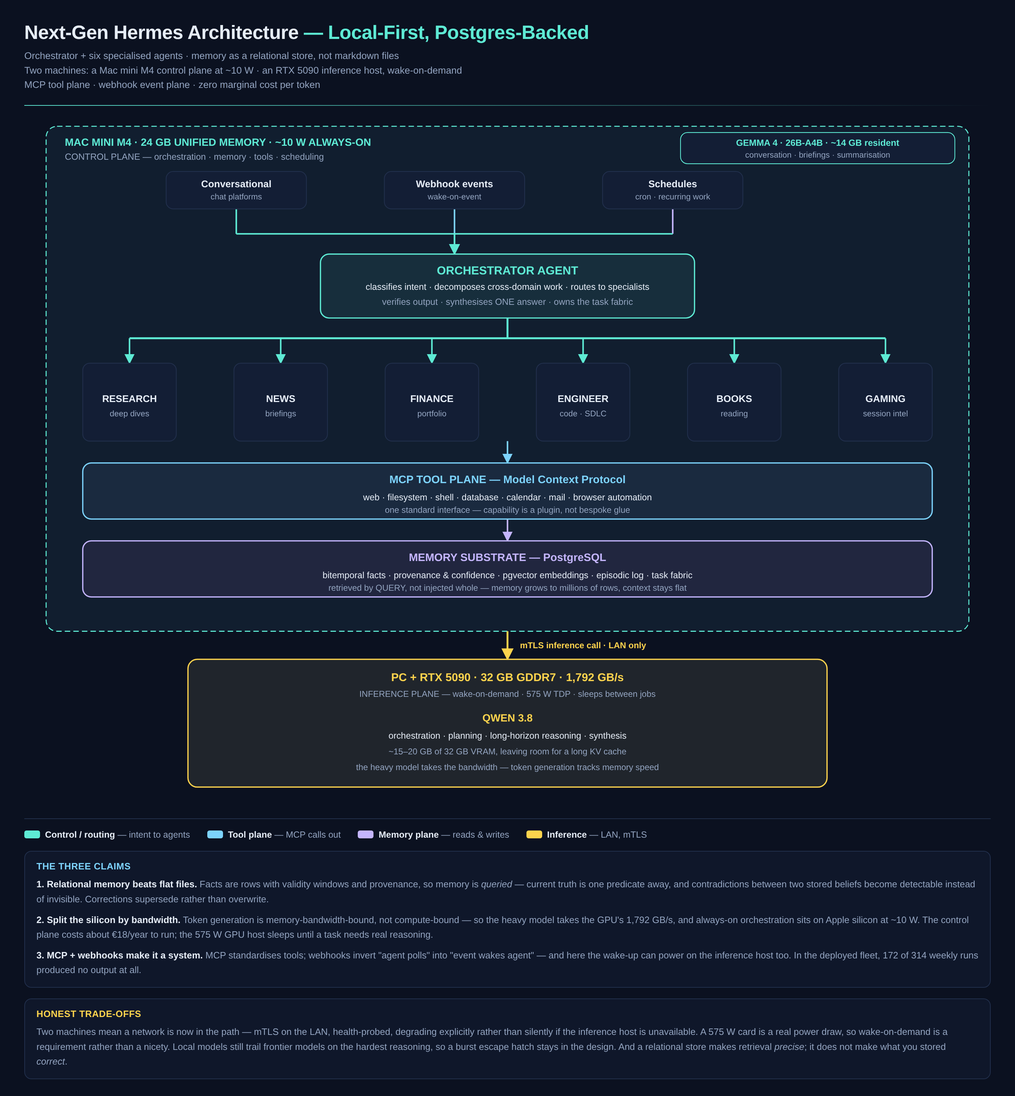
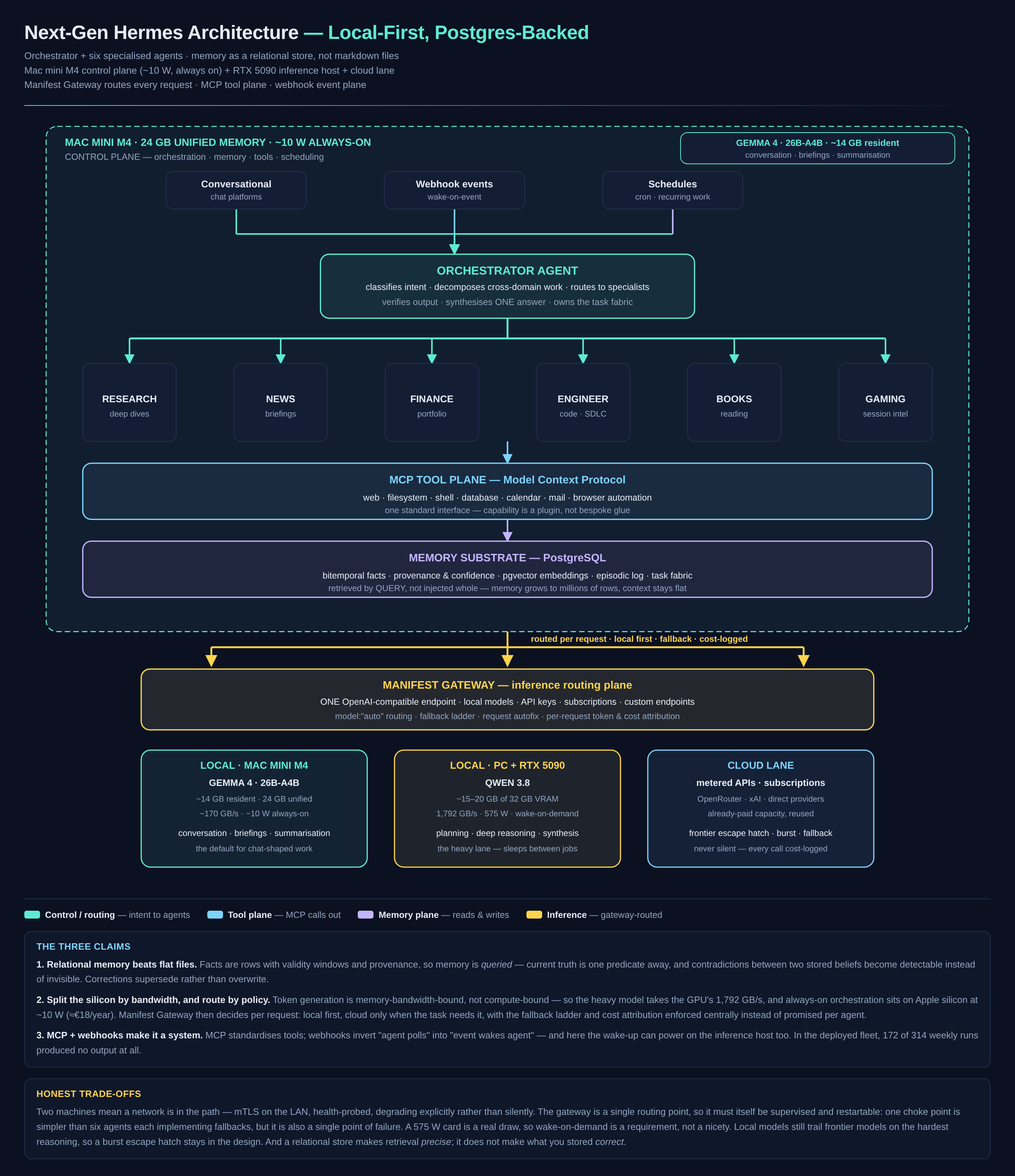
Add Manifest Gateway as the inference routing plane
One OpenAI-compatible endpoint fronting local models, API keys, subscriptions
and custom endpoints — with model auto-routing, a fallback ladder, request
autofix and per-request token/cost attribution.

Changed region(s): [[0.031, 0.0, 0.9606, 0.9912], [0.6817, 0.0929, 0.9296, 0.1549], [0.4338, 0.0, 0.5577, 0.0619]]

diff --git a/diagrams/01-hld-next-gen.html b/diagrams/01-hld-next-gen.html
@@ -33,12 +33,12 @@
 <h1>Next-Gen Hermes Architecture <span>— Local-First, Postgres-Backed</span></h1>
 <div class="sub">
   Orchestrator + six specialised agents · memory as a relational store, not markdown files<br>
-  Two machines: a Mac&nbsp;mini&nbsp;M4 control plane at ~10&nbsp;W · an RTX&nbsp;5090 inference host, wake-on-demand<br>
-  MCP tool plane · webhook event plane · zero marginal cost per token
+  Mac&nbsp;mini&nbsp;M4 control plane (~10&nbsp;W, always on) + RTX&nbsp;5090 inference host + cloud lane<br>
+  Manifest Gateway routes every request · MCP tool plane · webhook event plane
 </div>
 <div class="rule"></div>
 
-<svg viewBox="0 0 1240 880" xmlns="http://www.w3.org/2000/svg" font-family="-apple-system,BlinkMacSystemFont,Segoe UI,Inter,Helvetica,Arial,sans-serif">
+<svg viewBox="0 0 1240 982" xmlns="http://www.w3.org/2000/svg" font-family="-apple-system,BlinkMacSystemFont,Segoe UI,Inter,Helvetica,Arial,sans-serif">
 
   <defs>
     <marker id="ar" viewBox="0 0 10 10" refX="9" refY="5" markerWidth="6.5" markerHeight="6.5" orient="auto-start-reverse">
@@ -84,9 +84,48 @@
   <path d="M620,412 L620,440" stroke="#7dd3fc" stroke-width="2" fill="none" marker-end="url(#ar2)"/>
   <path d="M620,512 L620,540" stroke="#c4b5fd" stroke-width="2" fill="none" marker-end="url(#ar3)"/>
 
-  <path d="M620,656 L620,692" stroke="#fcd34d" stroke-width="2.4" fill="none" marker-end="url(#ar4)"/>
-  <text x="636" y="678" fill="#fcd34d" font-size="11" font-weight="600">mTLS inference call · LAN only</text>
+  <!-- ===== INFERENCE ROUTING — MANIFEST GATEWAY ===== -->
+  <path d="M620,656 L620,676" stroke="#fcd34d" stroke-width="2.4" fill="none"/>
+  <path d="M240,676 L1000,676" stroke="#fcd34d" stroke-width="2.4" fill="none"/>
+  <path d="M240,676 L240,700" stroke="#fcd34d" stroke-width="2.4" fill="none" marker-end="url(#ar4)"/>
+  <path d="M620,676 L620,700" stroke="#fcd34d" stroke-width="2.4" fill="none" marker-end="url(#ar4)"/>
+  <path d="M1000,676 L1000,700" stroke="#fcd34d" stroke-width="2.4" fill="none" marker-end="url(#ar4)"/>
+  <text x="650" y="669" fill="#fcd34d" font-size="11" font-weight="600">routed per request · local first · fallback · cost-logged</text>
 
+  <!-- ===== MANIFEST GATEWAY BAND ===== -->
+  <rect x="150" y="704" width="940" height="78" rx="11" fill="#0f172a" stroke="#fcd34d" stroke-width="1.6"/>
+  <rect x="150" y="704" width="940" height="78" rx="11" fill="#fcd34d" opacity="0.09"/>
+  <text x="620" y="729" fill="#fcd34d" font-size="14" font-weight="700" text-anchor="middle">MANIFEST GATEWAY — inference routing plane</text>
+  <text x="620" y="750" fill="#e6edf7" font-size="11.5" text-anchor="middle">ONE OpenAI-compatible endpoint · local models · API keys · subscriptions · custom endpoints</text>
+  <text x="620" y="768" fill="#93a4c0" font-size="11" text-anchor="middle">model:"auto" routing · fallback ladder · request autofix · per-request token &amp; cost attribution</text>
+
+  <!-- ===== THREE LANES ===== -->
+  <rect x="150" y="808" width="290" height="150" rx="12" fill="#0f172a" stroke="#5eead4" stroke-width="1.5"/>
+  <rect x="150" y="808" width="290" height="150" rx="12" fill="#5eead4" opacity="0.06"/>
+  <text x="295" y="832" fill="#5eead4" font-size="13" font-weight="700" text-anchor="middle">LOCAL · MAC MINI M4</text>
+  <text x="295" y="854" fill="#e6edf7" font-size="12" font-weight="600" text-anchor="middle">GEMMA 4 · 26B-A4B</text>
+  <text x="295" y="874" fill="#93a4c0" font-size="10.5" text-anchor="middle">~14 GB resident · 24 GB unified</text>
+  <text x="295" y="893" fill="#93a4c0" font-size="10.5" text-anchor="middle">~170 GB/s · ~10 W always-on</text>
+  <text x="295" y="918" fill="#e6edf7" font-size="11" text-anchor="middle">conversation · briefings · summarisation</text>
+  <text x="295" y="938" fill="#93a4c0" font-size="10.5" text-anchor="middle">the default for chat-shaped work</text>
+
+  <rect x="475" y="808" width="290" height="150" rx="12" fill="#0f172a" stroke="#fcd34d" stroke-width="1.5"/>
+  <rect x="475" y="808" width="290" height="150" rx="12" fill="#fcd34d" opacity="0.07"/>
+  <text x="620" y="832" fill="#fcd34d" font-size="13" font-weight="700" text-anchor="middle">LOCAL · PC + RTX 5090</text>
+  <text x="620" y="854" fill="#e6edf7" font-size="12" font-weight="600" text-anchor="middle">QWEN 3.8</text>
+  <text x="620" y="874" fill="#93a4c0" font-size="10.5" text-anchor="middle">~15–20 GB of 32 GB VRAM</text>
+  <text x="620" y="893" fill="#93a4c0" font-size="10.5" text-anchor="middle">1,792 GB/s · 575 W · wake-on-demand</text>
+  <text x="620" y="918" fill="#e6edf7" font-size="11" text-anchor="middle">planning · deep reasoning · synthesis</text>
+  <text x="620" y="938" fill="#93a4c0" font-size="10.5" text-anchor="middle">the heavy lane — sleeps between jobs</text>
+
+  <rect x="800" y="808" width="290" height="150" rx="12" fill="#0f172a" stroke="#7dd3fc" stroke-width="1.5"/>
+  <rect x="800" y="808" width="290" height="150" rx="12" fill="#7dd3fc" opacity="0.06"/>
+  <text x="945" y="832" fill="#7dd3fc" font-size="13" font-weight="700" text-anchor="middle">CLOUD LANE</text>
+  <text x="945" y="854" fill="#e6edf7" font-size="12" font-weight="600" text-anchor="middle">metered APIs · subscriptions</text>
+  <text x="945" y="874" fill="#93a4c0" font-size="10.5" text-anchor="middle">OpenRouter · xAI · direct providers</text>
+  <text x="945" y="893" fill="#93a4c0" font-size="10.5" text-anchor="middle">already-paid capacity, reused</text>
+  <text x="945" y="918" fill="#e6edf7" font-size="11" text-anchor="middle">frontier escape hatch · burst · fallback</text>
+  <text x="945" y="938" fill="#93a4c0" font-size="10.5" text-anchor="middle">never silent — every call cost-logged</text>
   <!-- ===== INPUTS ===== -->
   <rect x="182" y="66" width="180" height="48" rx="9" fill="#131e35" stroke="#22304d"/>
   <text x="272" y="86" fill="#e6edf7" font-size="12.5" font-weight="600" text-anchor="middle">Conversational</text>
@@ -148,36 +187,26 @@
   <text x="620" y="588" fill="#e6edf7" font-size="11.5" text-anchor="middle">bitemporal facts · provenance &amp; confidence · pgvector embeddings · episodic log · task fabric</text>
   <text x="620" y="604" fill="#93a4c0" font-size="11" text-anchor="middle">retrieved by QUERY, not injected whole — memory grows to millions of rows, context stays flat</text>
 
-  <!-- ===== INFERENCE HOST ===== -->
-  <rect x="210" y="692" width="820" height="164" rx="12" fill="#0f172a" stroke="#fcd34d" stroke-width="1.6"/>
-  <rect x="210" y="692" width="820" height="164" rx="12" fill="#fcd34d" opacity="0.075"/>
-
-  <text x="620" y="720" fill="#fcd34d" font-size="14.5" font-weight="700" text-anchor="middle">PC + RTX 5090 · 32 GB GDDR7 · 1,792 GB/s</text>
-  <text x="620" y="740" fill="#93a4c0" font-size="11" text-anchor="middle">INFERENCE PLANE — wake-on-demand · 575 W TDP · sleeps between jobs</text>
-
-  <text x="620" y="772" fill="#fcd34d" font-size="13.5" font-weight="700" text-anchor="middle">QWEN 3.8</text>
-  <text x="620" y="794" fill="#e6edf7" font-size="11.5" text-anchor="middle">orchestration · planning · long-horizon reasoning · synthesis</text>
-  <text x="620" y="814" fill="#93a4c0" font-size="11" text-anchor="middle">~15–20 GB of 32 GB VRAM, leaving room for a long KV cache</text>
-  <text x="620" y="834" fill="#93a4c0" font-size="11" text-anchor="middle">the heavy model takes the bandwidth — token generation tracks memory speed</text>
+  <!-- ===== INFERENCE HOST (represented by the lane boxes above) ===== -->
 </svg>
 
 <div class="legendrow">
   <span><span class="sw" style="background:#5eead4"></span><b>Control / routing</b> — intent to agents</span>
   <span><span class="sw" style="background:#7dd3fc"></span><b>Tool plane</b> — MCP calls out</span>
   <span><span class="sw" style="background:#c4b5fd"></span><b>Memory plane</b> — reads &amp; writes</span>
-  <span><span class="sw" style="background:#fcd34d"></span><b>Inference</b> — LAN, mTLS</span>
+  <span><span class="sw" style="background:#fcd34d"></span><b>Inference</b> — gateway-routed</span>
 </div>
 
 <div class="card">
   <h3>The three claims</h3>
   <p><b>1. Relational memory beats flat files.</b> Facts are rows with validity windows and provenance, so memory is <i>queried</i> — current truth is one predicate away, and contradictions between two stored beliefs become detectable instead of invisible. Corrections supersede rather than overwrite.</p>
-  <p style="margin-top:8px"><b>2. Split the silicon by bandwidth.</b> Token generation is memory-bandwidth-bound, not compute-bound — so the heavy model takes the GPU's 1,792 GB/s, and always-on orchestration sits on Apple silicon at ~10 W. The control plane costs about €18/year to run; the 575 W GPU host sleeps until a task needs real reasoning.</p>
+  <p style="margin-top:8px"><b>2. Split the silicon by bandwidth, and route by policy.</b> Token generation is memory-bandwidth-bound, not compute-bound — so the heavy model takes the GPU's 1,792 GB/s, and always-on orchestration sits on Apple silicon at ~10 W (≈€18/year). Manifest Gateway then decides per request: local first, cloud only when the task needs it, with the fallback ladder and cost attribution enforced centrally instead of promised per agent.</p>
   <p style="margin-top:8px"><b>3. MCP + webhooks make it a system.</b> MCP standardises tools; webhooks invert "agent polls" into "event wakes agent" — and here the wake-up can power on the inference host too. In the deployed fleet, 172 of 314 weekly runs produced no output at all.</p>
 </div>
 
 <div class="card">
   <h3>Honest trade-offs</h3>
-  <p>Two machines mean a network is now in the path — mTLS on the LAN, health-probed, degrading explicitly rather than silently if the inference host is unavailable. A 575 W card is a real power draw, so wake-on-demand is a requirement rather than a nicety. Local models still trail frontier models on the hardest reasoning, so a burst escape hatch stays in the design. And a relational store makes retrieval <i>precise</i>; it does not make what you stored <i>correct</i>.</p>
+  <p>Two machines mean a network is in the path — mTLS on the LAN, health-probed, degrading explicitly rather than silently. The gateway is a single routing point, so it must itself be supervised and restartable: one choke point is simpler than six agents each implementing fallbacks, but it is also a single point of failure. A 575 W card is a real draw, so wake-on-demand is a requirement, not a nicety. Local models still trail frontier models on the hardest reasoning, so a burst escape hatch stays in the design. And a relational store makes retrieval <i>precise</i>; it does not make what you stored <i>correct</i>.</p>
 </div>
 
 </body>

diff --git a/HLD.md b/HLD.md
@@ -46,20 +46,24 @@ PostgreSQL as the memory substrate; MCP for tools; webhooks for event-driven wor
                         │  episodic log · task state · audit       │
                         └──────────────────────────────────────────┘
 
-   ══════════════════ control plane ═╪═ inference plane ═════════════════
+   ══════════════════ control plane (Mac mini) ══════════════════════════
 
-   ┌───────────────────────────────┐  │  ┌──────────────────────────────┐
-   │  MAC MINI M4 · 24 GB          │  │  │  PC + RTX 5090 · 32 GB       │
-   │  170 GB/s · ~10 W always-on   │  │  │  1,792 GB/s · 575 W TDP      │
-   │  CONTROL PLANE                │◀─┼─▶│  INFERENCE PLANE             │
-   │                               │  │  │                              │
-   │  GEMMA 4 (26B-A4B, ~4B active)│  │  │  QWEN 3.8                    │
-   │  conversation · briefings     │  │  │  orchestration · planning    │
-   │  summarisation · chat surfaces│  │  │  deep reasoning · synthesis  │
-   │  ~14 GB resident              │  │  │  ~15–20 GB + long KV cache   │
-   └───────────────────────────────┘  │  └──────────────────────────────┘
-     orchestration · memory · tools   │    dedicated GPU inference,
-     scheduling · always available    │    wake-on-demand
+                        ┌───────────────┴──────────────────────────┐
+                        │  MANIFEST GATEWAY — inference routing    │
+                        │  ONE OpenAI-compatible endpoint for the  │
+                        │  whole fleet · model:"auto" · fallback   │
+                        │  ladder · per-route params · token and   │
+                        │  cost observability                      │
+                        └──┬───────────────┬──────────────┬────────┘
+                           │               │              │
+        ┌──────────────────┴──┐ ┌──────────┴────────┐ ┌───┴────────────────┐
+        │  GEMMA 4            │ │  QWEN 3.8         │ │  CLOUD LANE        │
+        │  Mac mini · resident│ │  PC + RTX 5090    │ │  OpenRouter · xAI  │
+        │  26B-A4B, ~4B active│ │  wake-on-demand   │ │  keys + subs       │
+        │  ~14 GB · 170 GB/s  │ │  ~15–20 GB of 32  │ │  frontier escape   │
+        │  conversation·chat  │ │  deep reasoning   │ │  hatch + fallback  │
+        └─────────────────────┘ └───────────────────┘ └────────────────────┘
+           ~10 W, always on        575 W, sleeps         metered, last resort
 ```
 
 ## 3. Why two machines, and why these two
@@ -97,7 +101,77 @@ high-frequency conversational surfaces, where fluency matters more than depth. E
 model is resident on its own host, so there is no swap penalty between a chat turn and
 an orchestration turn.
 
-## 4. The memory substrate
+## 4. The routing plane — Manifest Gateway
+
+Between the agents and every model sits **one** gateway. [Manifest](https://manifest.build)
+is an open-source LLM gateway (self-hosted, Docker) that exposes a single
+OpenAI-compatible endpoint in front of many backends. It is the component that makes
+"cloud or local, depending on the task" a routing *policy* rather than scattered
+per-agent logic.
+
+### 4.1 What it unifies
+
+The gateway fronts four kinds of backend **simultaneously** — the exact mix this design
+needs:
+
+| Backend kind | In this design | Why it matters here |
+|---|---|---|
+| **Local server** | Qwen 3.8 (RTX 5090), Gemma 4 (Mac mini) via Ollama / llama.cpp | The privacy and zero-marginal-cost lane |
+| **API keys** | OpenRouter, plus any direct provider | Burst capacity and frontier capability |
+| **Provider subscriptions** | Subscription-based access used as-is | Reuses capacity already paid for rather than re-buying per token |
+| **Custom OpenAI-compatible endpoints** | Any bespoke or self-built server | Escape hatch for future local or private models |
+
+Every backend is reached the same way, so an agent can mix local, subscription and
+metered models transparently — no per-agent provider code.
+
+### 4.2 How routing decisions are made
+
+```
+agent request
+     │
+     ▼
+Manifest Gateway ── policy ──┬─▶ local  (privacy / zero marginal cost)  ← default
+     │                       ├─▶ subscription (already-paid capacity)
+     │                       ├─▶ metered API (burst, frontier capability)
+     │                       └─▶ escalation (a step the local model can't carry)
+     │
+     ├─ fallback ladder: provider A → provider B → local, per request
+     ├─ autofix: repair malformed upstream requests instead of failing the run
+     └─ observability: every request, token and cost — per agent, key, provider
+```
+
+The policy the gateway enforces:
+
+1. **Local first.** Anything the local models can carry stays local — that is the
+   cost and privacy default.
+2. **Escalate on need, not on habit.** A step the local model can't carry is routed to
+   the cloud lane *explicitly and observably*, never silently.
+3. **Fall back in order.** If the RTX host is unavailable, the ladder steps to the
+   cloud lane rather than failing the task — this is what makes the second-machine
+   topology safe to run.
+4. **Never a surprise bill.** Because every request is attributed to an agent and a
+   provider, metered spend is visible per call instead of discovered at month end.
+
+### 4.3 Why not just call providers directly
+
+Four reasons, each of which the design would otherwise have to build itself:
+
+- **One endpoint, many backends.** Adding or swapping a model is a gateway config
+  change, not a code change in six agents.
+- **Fallback and repair are infrastructure concerns.** Retry ladders, provider outages
+  and malformed-request repair belong in a proxy, not in agent prompts.
+- **Cost attribution comes free.** Per-agent, per-key token accounting is exactly the
+  instrumentation this design otherwise has to hand-roll — and it directly serves the
+  efficiency claims in [`COST_MODEL.md`](COST_MODEL.md).
+- **It keeps the routing policy honest.** With one choke point, "local first, cloud on
+  exception" is a rule the system *enforces* and *logs*, rather than an intention each
+  agent is trusted to follow.
+
+*Note:* the gateway is the control-plane component that makes this policy real. Local
+servers it routes to still live on their own hosts, so the two-machine split is
+unchanged — the gateway decides *where* a request goes, not where the models run.
+
+## 5. The memory substrate
 
 `MEMORY.md`-style files are replaced by a relational store. The short version of why:
 
@@ -114,7 +188,7 @@ The deployed fleet this models runs at **~97% input tokens**. "Retrieve precisel
 instead of re-reading everything" is therefore the architecture's biggest single
 efficiency win. Full schema in [`LLD.md`](LLD.md).
 
-## 5. How work enters the system
+## 6. How work enters the system
 
 Three entry paths, deliberately distinct:
 
@@ -128,7 +202,7 @@ Three entry paths, deliberately distinct:
    is doubly valuable, because a wake-up can also *power on the GPU host*. The agent
    runs — and the expensive silicon wakes — only when something actually happened.
 
-## 6. Why MCP matters here
+## 7. Why MCP matters here
 
 MCP (Model Context Protocol) makes tools a **standard interface** rather than
 bespoke code per integration. Practically: an agent can be handed a new capability
@@ -136,7 +210,7 @@ without touching agent logic, and the runtime can itself be exposed *as* an MCP 
 so other agents or IDEs can drive it. It is the difference between seven scripts that
 each know how to call the web, and one system where capability is a plugin.
 
-## 7. Cost shape
+## 8. Cost shape
 
 See [`COST_MODEL.md`](COST_MODEL.md) for the arithmetic. In one line:
 **capex × amortisation + electricity**, largely independent of volume — versus a
@@ -144,7 +218,7 @@ metered bill that scales with every token and is capped by rate limits. The spli
 design lowers capex *and* lowers the power bill, because the high-draw GPU sits idle
 most of the day.
 
-## 8. Honest limitations
+## 9. Honest limitations
 
 Stated because a design document that only lists strengths is marketing, not
 engineering.
@@ -161,6 +235,11 @@ engineering.
 - **24 GB is a hard ceiling on the control plane.** The Mac mini runs Gemma 4
   comfortably and Qwen 3.8 *not* comfortably — that constraint is exactly why the
   design is two machines rather than one.
+- **The gateway is a single routing point, and a single point of failure.** Every model
+  call passes through it, so it must be supervised and restartable, and its own health
+  is part of the control plane's monitoring. That is a real cost of the simplification —
+  accepted because one configurable choke point beats six agents each implementing
+  their own provider logic and fallbacks.
 - **Memory quality is the real risk.** A relational store makes retrieval precise;
   it does not make what you stored *correct*. Extraction and confidence scoring need
   as much care as the schema.

diff --git a/LLD.md b/LLD.md
@@ -125,25 +125,34 @@ base grows to millions of rows.
 
 ## 3. Inference routing
 
-Two hosts, one logical inference plane. The GPU host serves the heavy model; the
-control plane serves the conversational one locally.
+Two hosts and one cloud lane, mediated by a single gateway. The GPU host serves the
+heavy model; the control plane serves the conversational one locally; the cloud lane
+exists for bursts, escalation and fallback.
 
 ```
-request ──▶ classify ──┬── orchestration / planning / synthesis ──▶ Qwen 3.8
-                       │                                            (PC + RTX 5090)
-                       ├── conversation / briefing / summary  ────▶ Gemma 4
-                       │                                            (Mac mini, local)
-                       └── explicit escalation ──────────────────▶ hosted frontier
-                                                                  (opt-in, cost-logged)
+request ──▶ MANIFEST GATEWAY ──┬── orchestration / planning / synthesis ──▶ Qwen 3.8
+           (one endpoint,      │                                            (PC + RTX 5090)
+            one policy)        │
+                               ├── conversation / briefing / summary  ────▶ Gemma 4
+                               │                                            (Mac mini, local)
+                               │
+                               ├── explicit escalation ──────────────────▶ hosted frontier
+                               │                                          (opt-in, cost-logged)
+                               │
+                               └── fallback if the GPU host is absent ──▶ cloud lane
+                                                                          (never silent)
 ```
 
 - **Qwen 3.8 lives on the GPU host** — ~15–20 GB of 32 GB VRAM, leaving room for a
   long KV cache. 1,792 GB/s of bandwidth is what makes it fast.
 - **Gemma 4 lives on the control plane** — ~14 GB resident in 24 GB, so conversational
   turns need no network hop and no GPU wake-up.
-- Each agent declares its default lane; the orchestrator may override per task.
+- **The gateway owns the policy.** Routing rules, the fallback ladder, request repair
+  and cost attribution are gateway configuration — not logic duplicated in each agent.
+  Adding a model or changing a lane is a config change, not a code change.
 - Escalation to a hosted model is **explicit and logged** — never silent, so cost
-  surprises stay impossible.
+  surprises stay impossible; the gateway's per-request accounting is what makes that
+  claim checkable rather than aspirational.
 
 ### 3.1 Crossing the machine boundary
 
@@ -250,8 +259,10 @@ webhooks for everything else.
 
 | Failure | Behaviour | Mitigation |
 |---|---|---|
-| Inference host unavailable | Orchestrator degrades to local Gemma 4 or fails the task explicitly | Health probe before routing; never a silent pretend-success |
+| Gateway unavailable | All model calls fail — it is the single routing point | Supervised + restartable; health-checked by the control plane; the highest-priority service to recover |
+| Inference host unavailable | Gateway falls back down the ladder to the cloud lane rather than failing the task | Health probe before routing; fallback is gateway config, not agent logic |
 | Inference link degraded | Requests time out against a defined budget | LAN + mTLS; cold-start latency budgeted per task class |
+| Cloud lane unavailable | Gateway routes back to local capacity | Fallback ladder is bidirectional, not one-way |
 | Control plane (Mac mini) down | Fleet is down — it holds memory, scheduling and orchestration | Backups of the Postgres store; GPU host is not the bottleneck |
 | Local model unavailable | Requests fail fast; nothing is silently downgraded | Health check + explicit escalation path |
 | Postgres unavailable | Agents degrade to **read-only** | Storage on the control plane; no silent writes |

diff --git a/README.md b/README.md
@@ -19,8 +19,10 @@ world through **MCP servers** for tools and **webhooks** for event-driven activa
 Every fact an agent learns is written to **Postgres** with provenance, so memory is
 queried, versioned and joined — not grepped out of a blob of markdown. Inference is
 local and split by workload: **Qwen 3.8 on the RTX 5090** for orchestration and deep
-reasoning, **Gemma 4 on the Mac mini** for conversational surfaces. Marginal cost per
-token: zero.
+reasoning, **Gemma 4 on the Mac mini** for conversational surfaces. All of it sits
+behind **Manifest Gateway**, a single routing plane that sends each request to the
+local model, a subscription, or a metered cloud API depending on the task — with
+fallback and per-request cost attribution built in. Marginal cost per token: zero.
 
 ---
 
@@ -39,7 +41,8 @@ token: zero.
 
 **Mac mini M4 (24 GB)** runs the always-on control plane — orchestrator, memory,
 tools, scheduling — at ~10 W. **PC + RTX 5090 (32 GB VRAM)** runs the heavy inference
-model at 1,792 GB/s, waking on demand.
+model at 1,792 GB/s, waking on demand. **Manifest Gateway** sits in front of both,
+plus a cloud lane, and decides per request which one serves it.
 
 ---
 
